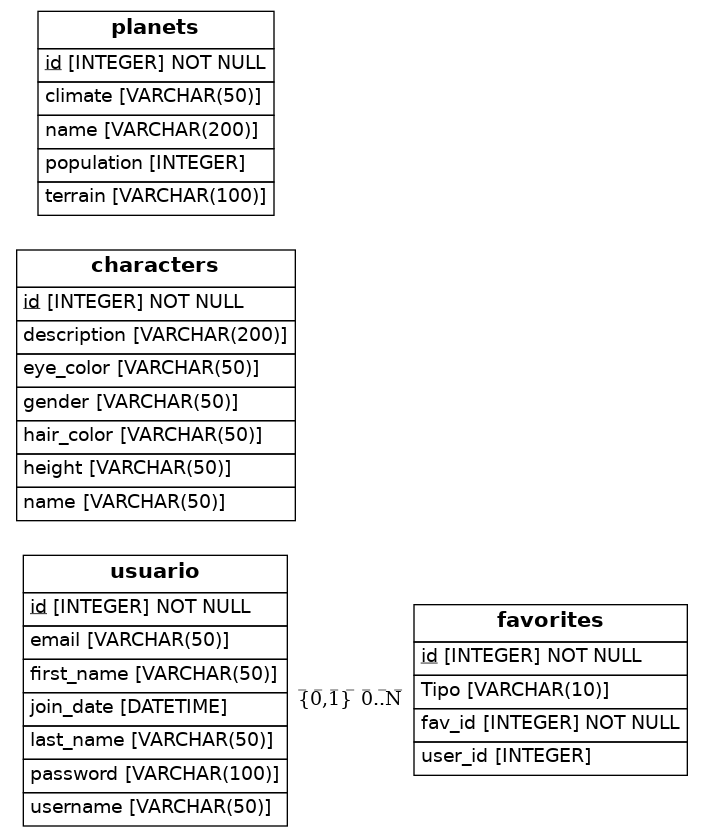
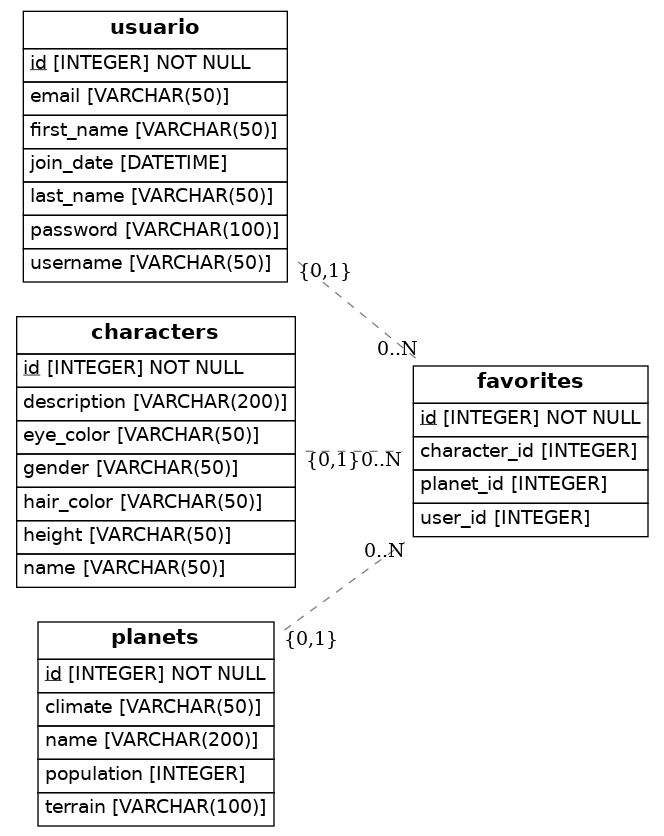
Fix(Relations): Correcion de relacion de modelos

diff --git a/src/models.py b/src/models.py
@@ -21,9 +21,6 @@ class Usuario(Base):
     join_date = Column(DateTime, server_default=func.now())
 
 
-class favList(enum.Enum):
-    CHARACTERS = 'Character'
-    PLANETS = 'Planet'
 
 class Characters(Base):
     __tablename__ = 'characters'
@@ -51,12 +48,8 @@ class Favorites(Base):
 
     id= Column(Integer, primary_key=True)
     user_id = Column(Integer, ForeignKey('usuario.id'))
-    fav_type = Column('Tipo', Enum(favList))
-    fav_id = Column(Integer, nullable=False)
-
-    __table_args__ = (
-        UniqueConstraint('user_id', 'fav_id', 'Tipo', name='uq_user_type_id'),
-    )
+    planet_id = Column(ForeignKey('planets.id'), nullable=True)
+    character_id = Column(ForeignKey('characters.id'))
 
 
 ## Draw from SQLAlchemy base
